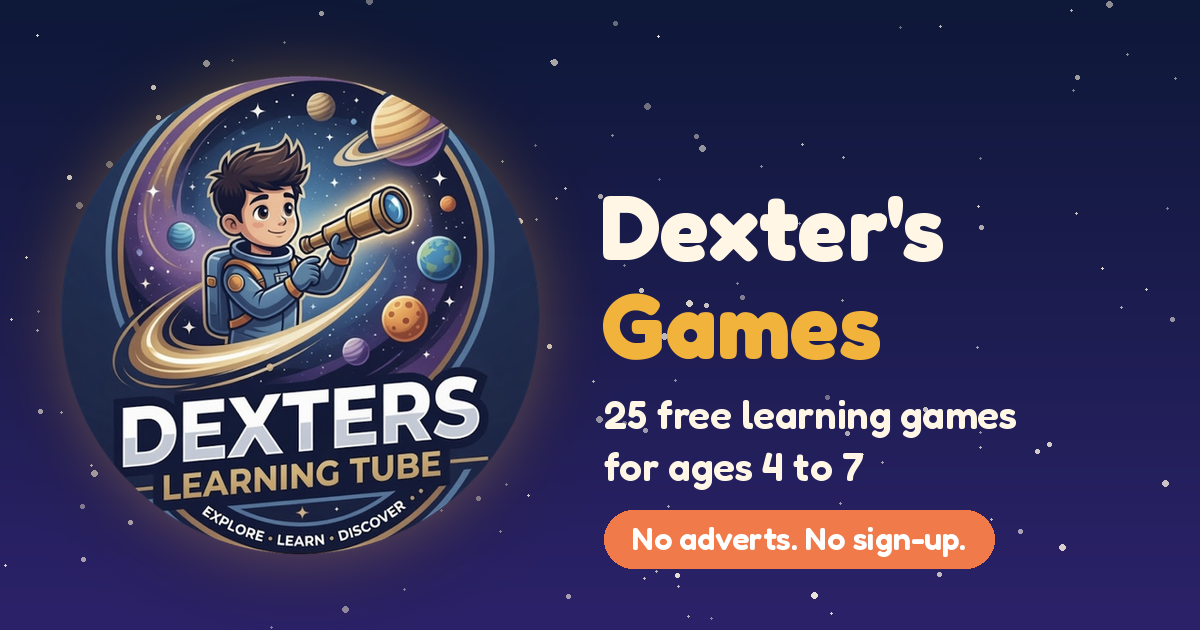
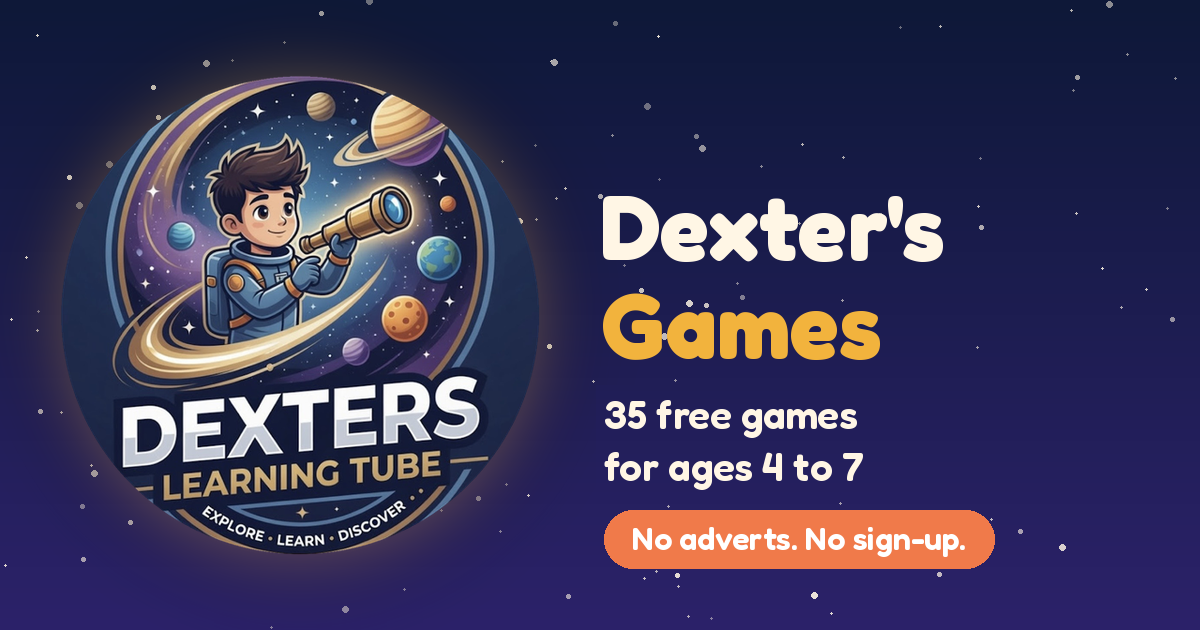
Update game count, grown-ups note and share image
Claude-Session: https://claude.ai/code/session_013sA68f3ka8KJosr4GguUM8

Changed region(s): [[0.6167, 0.6333, 0.8633, 0.6937], [0.4933, 0.6333, 0.5242, 0.6937]]

diff --git a/index.html b/index.html
@@ -4,7 +4,7 @@
 <meta charset="utf-8">
 <meta name="viewport" content="width=device-width,initial-scale=1,viewport-fit=cover">
 <title>Dexter's Games</title>
-<meta name="description" content="25 free learning games for ages 4 to 7 from Dexter's Learning Tube. Rockets, monsters, puzzles, planets, animals and more. No adverts, no sign-up.">
+<meta name="description" content="35 free games for ages 4 to 7 from Dexter's Learning Tube. Rockets, monsters, puzzles, planets, animals and more. No adverts, no sign-up.">
 <meta name="theme-color" content="#12234a">
 <link rel="manifest" href="manifest.webmanifest">
 <link rel="icon" href="img/logo-192.png">
@@ -14,7 +14,7 @@
 <meta name="apple-mobile-web-app-status-bar-style" content="black-translucent">
 <meta name="apple-mobile-web-app-title" content="Dexter's Games">
 <meta property="og:title" content="Dexter's Games">
-<meta property="og:description" content="25 free learning games for ages 4 to 7. No adverts, no sign-up.">
+<meta property="og:description" content="35 free games for ages 4 to 7. No adverts, no sign-up.">
 <meta property="og:image" content="https://cawconsultancy-dev.github.io/dexters-games/img/share.png">
 <meta property="og:url" content="https://cawconsultancy-dev.github.io/dexters-games/">
 <meta name="twitter:card" content="summary_large_image">
@@ -208,7 +208,7 @@ footer a{color:var(--gold-2)}
 
  <section class="grown" id="grown" aria-labelledby="gh">
   <h2 id="gh">For grown-ups</h2>
-  <p>Every game here is free, with no adverts and no sign-up. Scores are saved on this device only. The games are built around early years and Key Stage 1 learning: phonics, number sense, patterns, time, shapes and the world.</p>
+  <p>Every game here is free, with no adverts and no sign-up. Scores are saved on this device only. Most of the games are built around early years and Key Stage 1 learning: phonics, number sense, patterns, time, shapes and the world. The Arcade games are just for fun.</p>
   <div class="gcols">
    <div class="gbox">
     <h3>Subscribe to Dexter's Learning Tube</h3>
@@ -336,7 +336,7 @@ addEventListener('keydown',e=>{if(e.key==='Escape'&&open)$('back').click();});
 $('toGrown').onclick=()=>$('grown').scrollIntoView({behavior:'smooth'});
 function toast(t){const el=$('toast');el.textContent=t;el.classList.add('on');setTimeout(()=>el.classList.remove('on'),2200);}
 const URL_APP='https://cawconsultancy-dev.github.io/dexters-games/';
-$('shareBtn').onclick=async()=>{const data={title:"Dexter's Games",text:"25 free learning games for ages 4 to 7. No adverts, no sign-up.",url:URL_APP};
+$('shareBtn').onclick=async()=>{const data={title:"Dexter's Games",text:"35 free games for ages 4 to 7. No adverts, no sign-up.",url:URL_APP};
  try{if(navigator.share){await navigator.share(data);return;}await navigator.clipboard.writeText(URL_APP);toast('Link copied');}catch(e){if(e&&e.name!=='AbortError')toast(URL_APP);}};
 const standalone=matchMedia('(display-mode: standalone)').matches||navigator.standalone;
 const isAndroid=/android/i.test(navigator.userAgent);

diff --git a/sw.js b/sw.js
@@ -1,4 +1,4 @@
-const V='dg-v3';
+const V='dg-v4';
 const FILES=["./", "index.html", "manifest.webmanifest", "fonts/fredoka.woff2", "img/dexter-planet.jpg", "img/logo-192.png", "img/logo-180.png", "img/logo-512.png", "img/icon-maskable-192.png", "img/icon-maskable-512.png", "games/animal-game.html", "games/animal-number-run.html", "games/clock-rocket.html", "games/cosmic-quiz.html", "games/countries-game.html", "games/country-number-run.html", "games/crazy-snake.html", "games/drum-copycat.html", "games/fish-tank.html", "games/galaxy-treasure-hunt.html", "games/letter-trails.html", "games/number-ball-run.html", "games/number-bond-blast.html", "games/pattern-train.html", "games/planet-drop.html", "games/planet-number-run.html", "games/robo-snack.html", "games/rocket-race.html", "games/shape-puzzles.html", "games/shapes-game.html", "games/star-catcher.html", "games/story-shuffle.html", "games/vehicle-drop.html", "games/vehicle-game.html", "games/word-monster.html", "games/bubble-pop.html", "games/comet-flyer.html", "games/dino-dash.html", "games/fruit-swipe.html", "games/magic-paint.html", "games/monster-match.html", "games/sky-hopper.html", "games/star-notes.html", "games/tower-stack.html", "games/turbo-lanes.html"];
 self.addEventListener('install',e=>{e.waitUntil(caches.open(V).then(c=>c.addAll(FILES)).then(()=>self.skipWaiting()));});
 self.addEventListener('activate',e=>{e.waitUntil(caches.keys().then(ks=>Promise.all(ks.filter(k=>k!==V).map(k=>caches.delete(k)))).then(()=>self.clients.claim()));});
